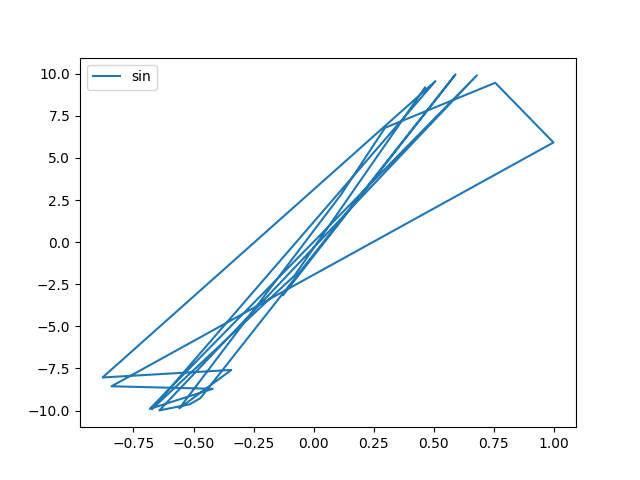
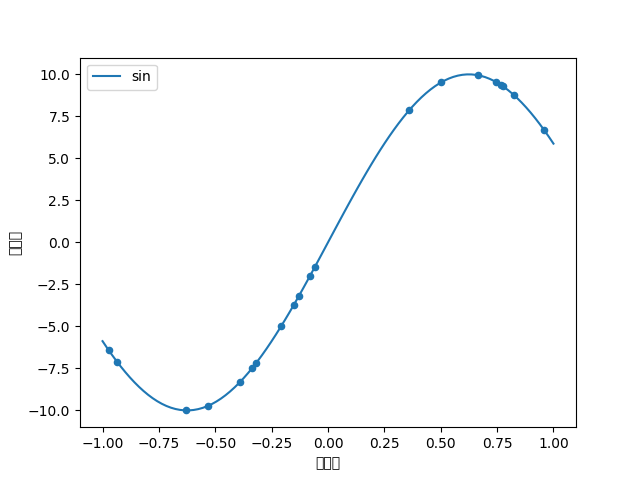
ensyu1.2ok?

diff --git a/演習.py b/演習.py
@@ -1,6 +1,7 @@
 import math
 import numpy as np
 import matplotlib.pyplot as plt
+import pandas as pd
 
 #%matplotlib inline
 
@@ -8,29 +9,32 @@ def true_function(x):
     y=math.sin(math.pi * x * 0.8) * 10
     return y
 
-elements_size=20
+elements_size=100
 
 Yarray=np.ndarray(elements_size)
 #xarray=np.random.rand(elements_size)
 #xarray=np.zeros(elements_size)
-#xarray=np.linspace(-1,1,elements_size)
-xarray=np.random.uniform(-1.0,1.0,20)
-print(xarray)
+xarray=np.linspace(-1,1,elements_size)
+xarray2=np.random.uniform(-1.0,1.0,20)
+
 k=0
 for i in xarray:
     y=true_function(i)
     Yarray[k]=y#20この真値
     k=k+1
-print(xarray[0])
 
-array1_2=np.column_stack([xarray,Yarray])
-print(np.shape(array1_2))
-print(array1_2)
+k=0
+Yarray2=np.ndarray(20)
 
+for i in xarray2:
+    y=true_function(i)
+    Yarray2[k]=y#20この真値
+    k=k+1
 
+array1_2=np.column_stack([xarray2,Yarray2])
 
-
-#print(Yarray)
+df=pd.DataFrame(array1_2,columns=["観測点","真値点"])
+df.plot.scatter(x="観測点",y="真値点")
 
 plt.plot(xarray,Yarray,label="sin")
 plt.legend()
